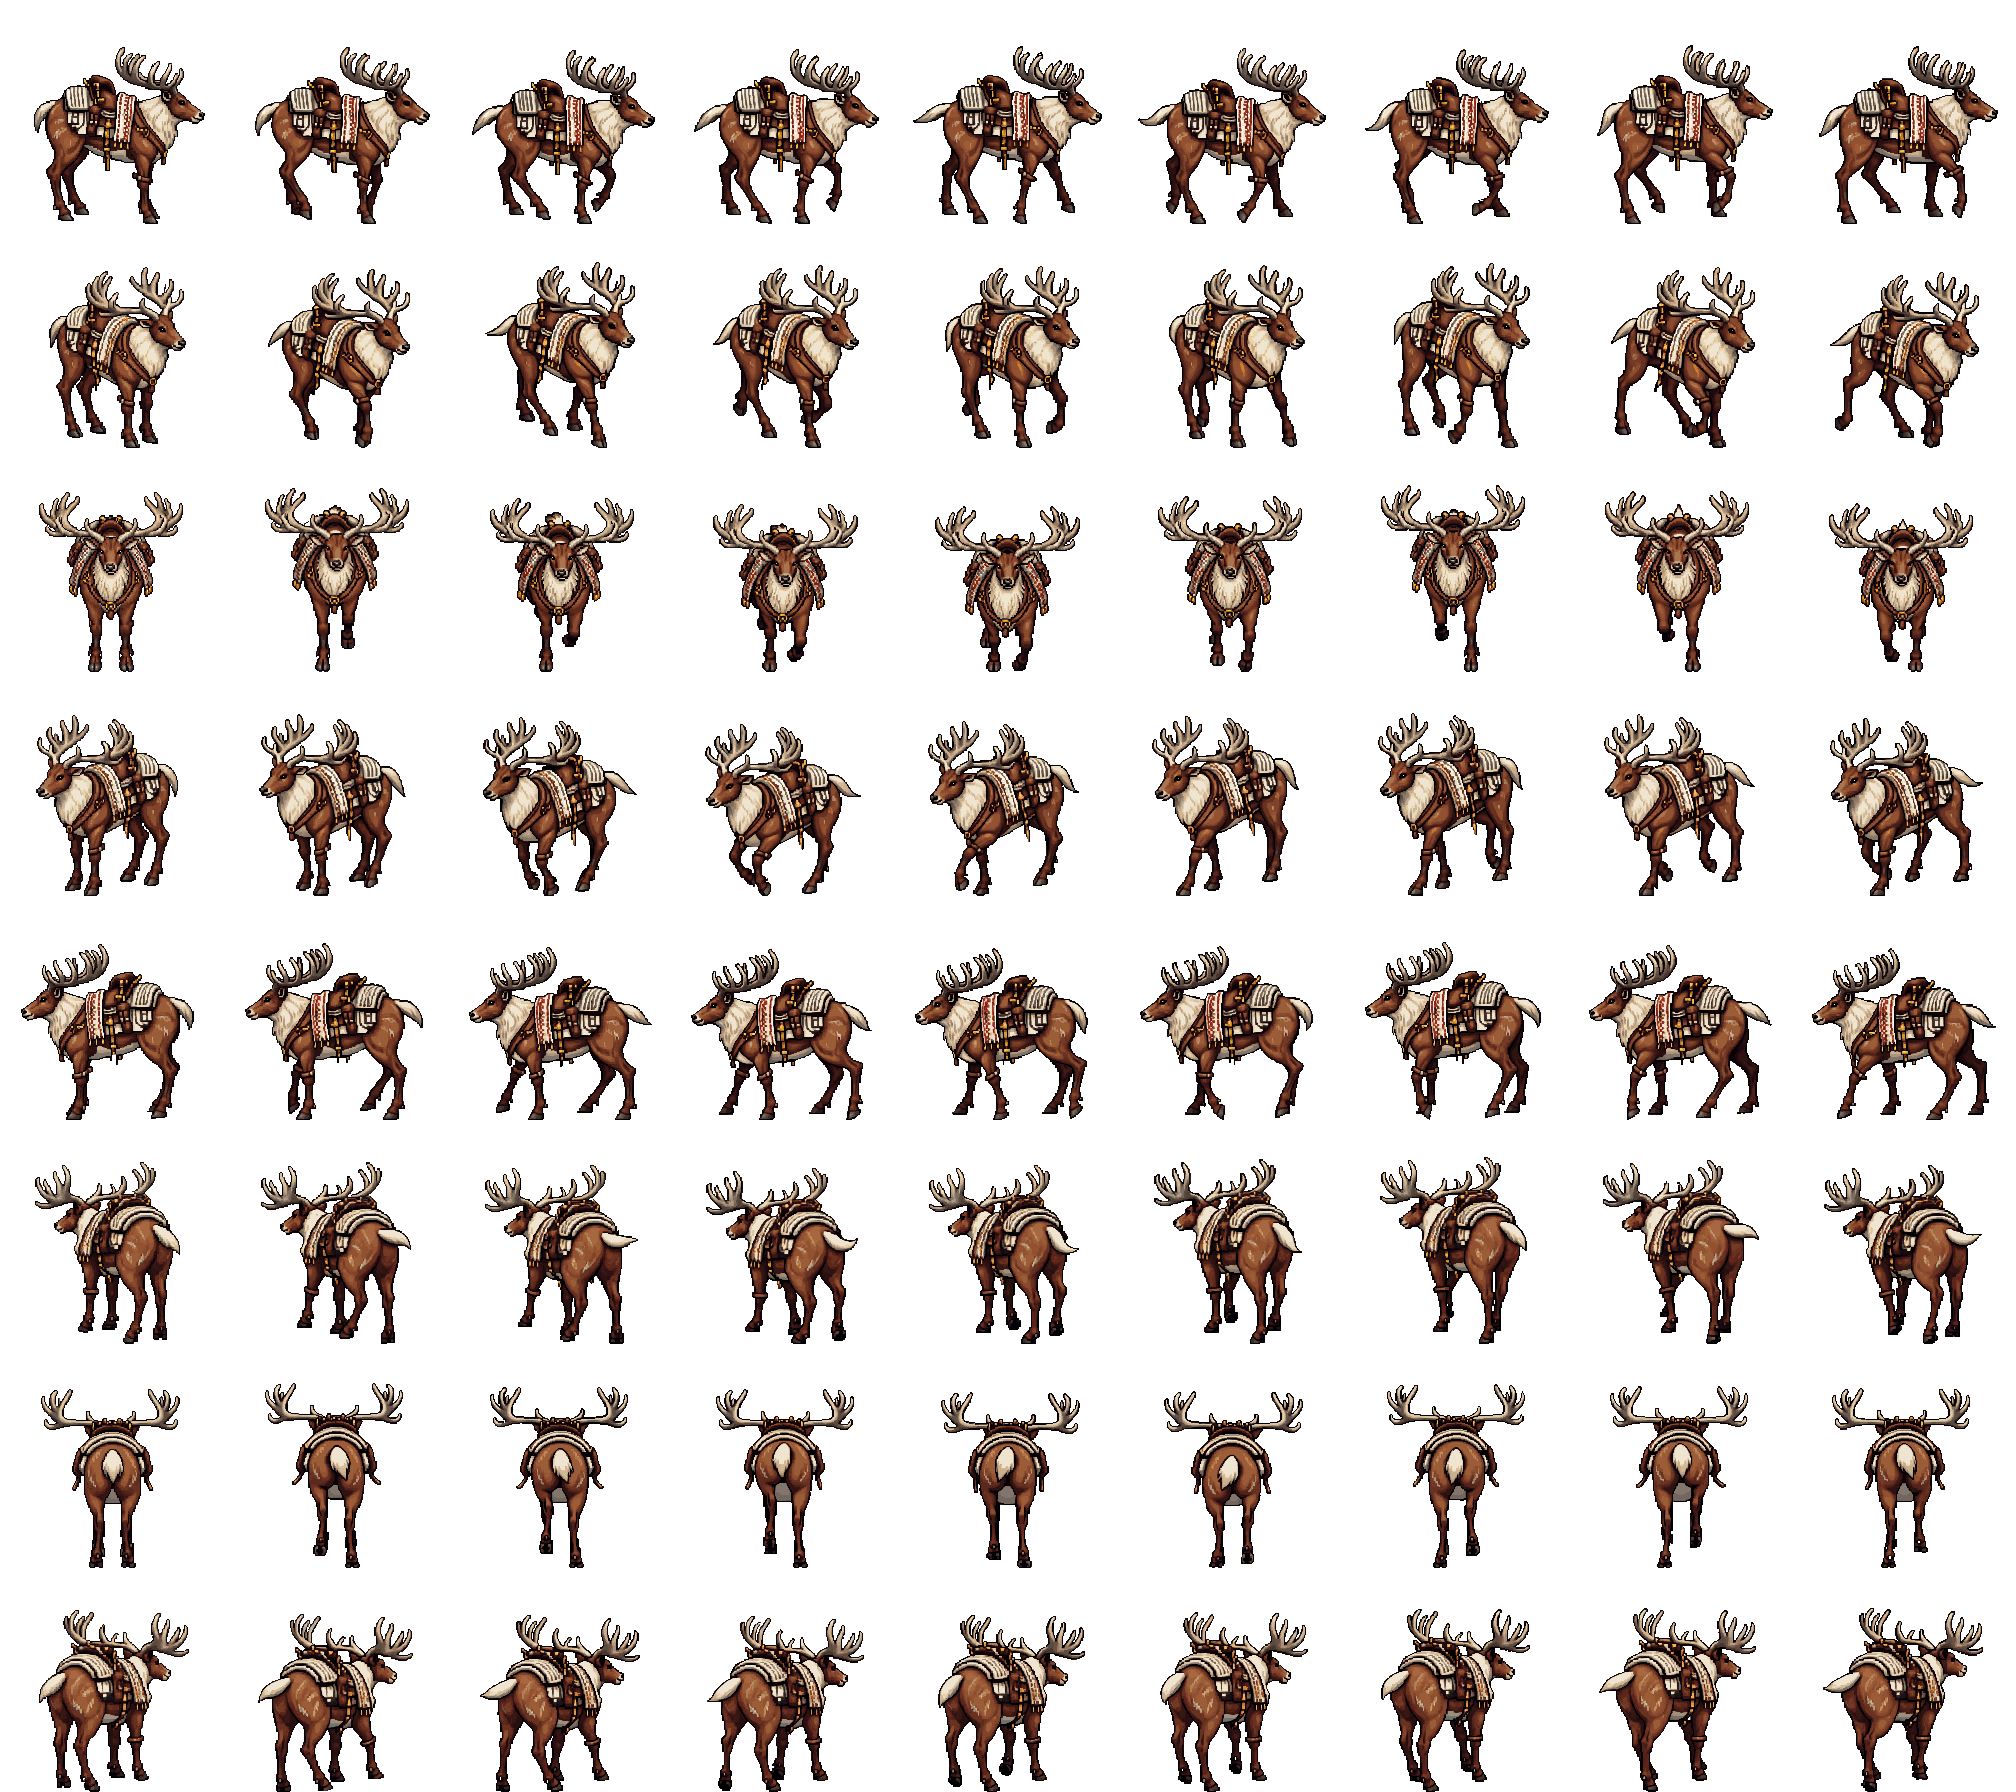
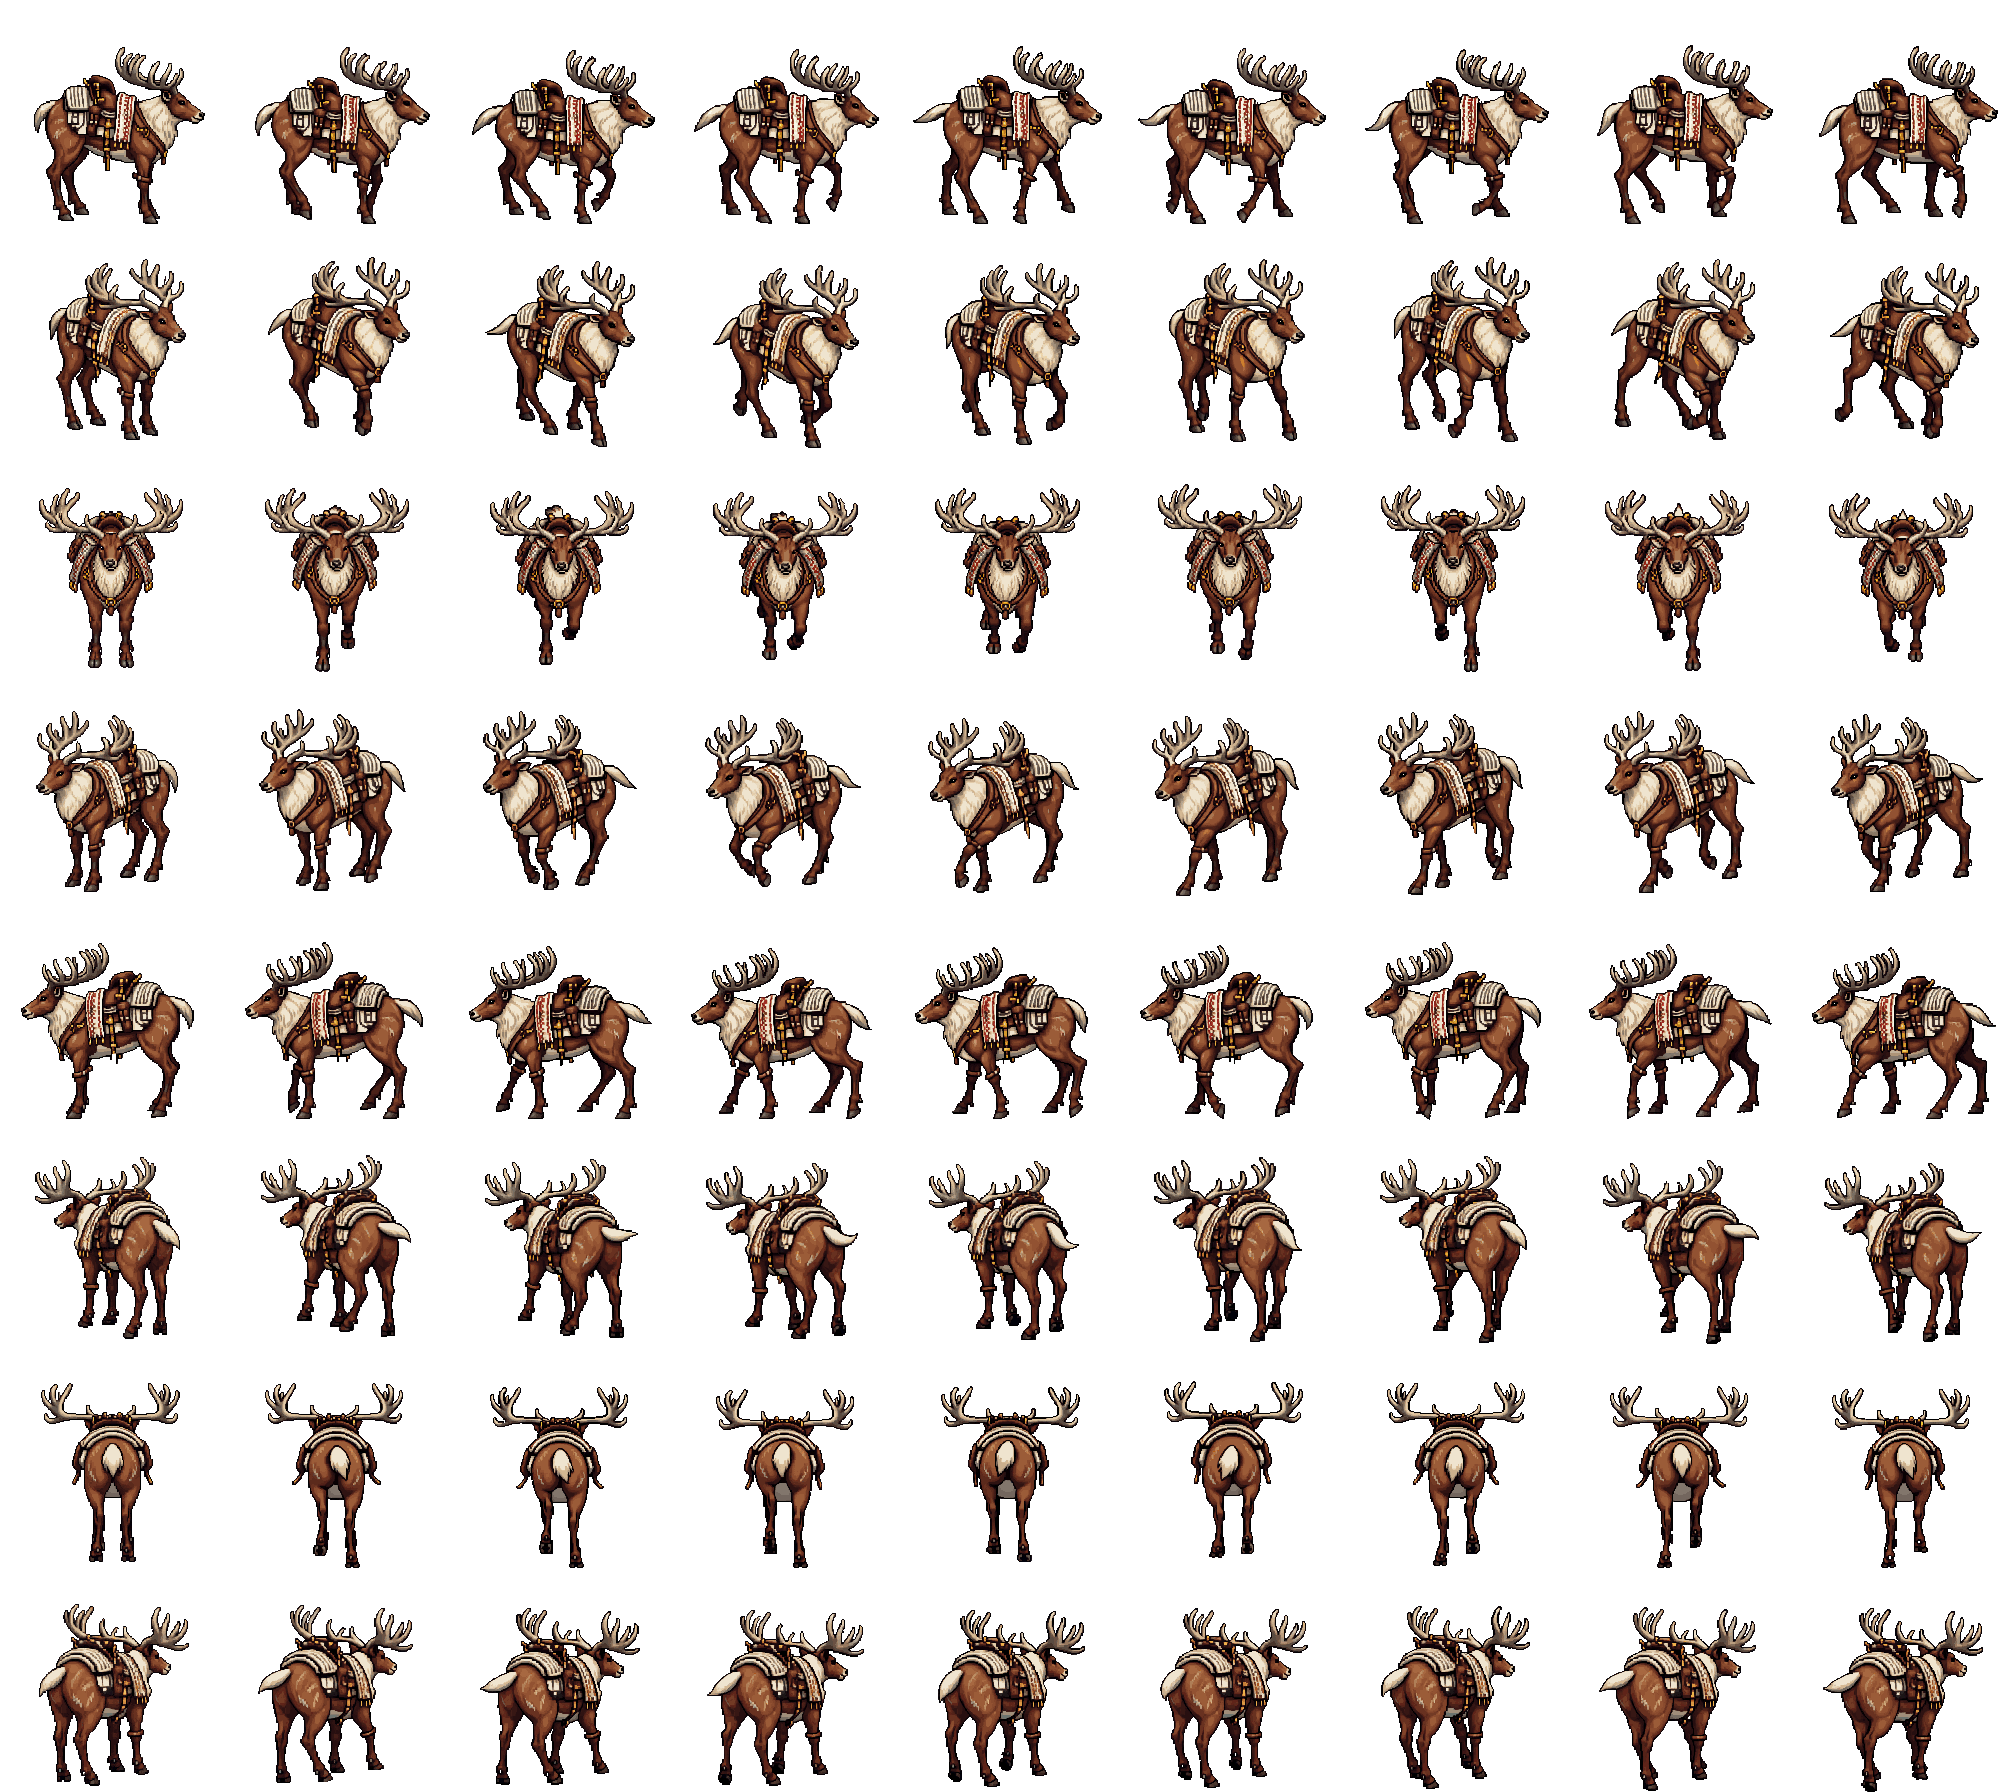
The far leg goes behind the horse, and gallops leave the ground
Owner: "make it so the leg in the back is faded out from a proper anchor
aesthetically." A rider straddles, so one leg hangs on the far side of the
barrel and belongs behind it - but the rig draws the whole animal under the
whole Warden, which put both legs in front and read as somebody standing
against a horse rather than sitting on one.

Done the way SwimCover does the waterline rather than with a second painting:
the *same frame* of the *same sprite* drawn again above the rider, alpha ramped
in from the saddle. Above the anchor it contributes nothing and the torso is
untouched; below it the animal closes over the legs. The anchor is the same
number the rider is lifted by, so the fade cannot disagree with where they are
sitting.

The owner also suggested painting a near-side layer per frame and keying it
over. That is the more accurate method - it would keep the near leg and the
stirrup, which this also hides - and it costs 8 facings x 9 frames x 4 mounts =
288 layers that must be remade every time an animation is regenerated, by hand,
because the generator cannot produce them. Recorded as the route to take if the
stirrup is ever wanted back.

**And the packer was flattening every gallop.** `fit_all` already crops a whole
facing through one box and sets the union's bottom on the cell floor, which
deliberately leaves each pose where it belongs within the cycle. `align` then
forced every frame's own floor back down to that edge - which is the
[…]

diff --git a/tools/pack_mount_frames.py b/tools/pack_mount_frames.py
@@ -122,38 +122,35 @@ def fit_all(frames):
     return out
 
 
-def align(frames, ground: int):
-    """Every frame translated so its content sits on the same ground line.
+def check_span(frames, facing: str) -> None:
+    """Refuses a facing whose poses sit on wildly different ground lines.
 
-    **The line is the cell's own bottom edge**, which is what makes a sheet
-    independent of everything else: the reader puts the content's floor on the
-    node, so a walk and a gallop packed on different days still stand on the
-    same ground, and there is no base painting to read - which is what let the
-    Ash Courser's magenta placeholder poison this once.
+    **This used to move them, and that was wrong.** `fit_all` already crops a
+    whole facing through one box and sets the *union's* bottom on the cell
+    floor, which is the shared ground line - and which deliberately leaves each
+    individual pose where it belongs *within* the cycle. A gallop is a bound:
+    all four feet leave the ground, so an airborne frame's lowest pixel is
+    genuinely higher than a planted one's. Forcing every frame's own floor down
+    to the cell edge is exactly the instruction "never leave the ground", and it
+    flattened every gallop packed before this.
+
+    The terrace stag is what said so. Its bound needed a 31-pixel correction and
+    the old assertion refused it as "a different pose, not a wandering foot" -
+    which was true, and the pose was right and the correction was the mistake.
+
+    What is still worth refusing is a facing whose poses do not belong to one
+    cycle at all: something that has drifted a whole body length is a different
+    animal, not a longer stride.
     """
-    out = []
-    worst = 0
-    for frame in frames:
-        floor = floor_of(frame)
-        if floor < 0:
-            out.append(frame)
-            continue
-        shift = ground - floor
-        worst = max(worst, abs(shift))
-        if shift == 0:
-            out.append(frame)
-            continue
-        moved = Image.new("RGBA", frame.size, (0, 0, 0, 0))
-        moved.alpha_composite(frame, (0, shift))
-        out.append(moved)
-    # A correction bigger than an eighth of the cell is not a wandering foot,
-    # it is a different pose - and silently sliding one into line would hide
-    # the real problem. The same assertion `install_boss_frames.py` makes.
-    if worst > CELL // 8:
-        raise SystemExit("a frame needed a %d px correction to reach the ground "
-                         "line; that is a different pose, not a wandering foot"
-                         % worst)
-    return out
+    floors = [floor_of(f) for f in frames]
+    real = [f for f in floors if f >= 0]
+    if not real:
+        return
+    spread = max(real) - min(real)
+    if spread > CELL // 2:
+        raise SystemExit("%s's poses span %d px of ground line, over half the "
+                         "%d cell - that is not one cycle"
+                         % (facing, spread, CELL))
 
 
 def expand(url: str, count: int):
@@ -250,7 +247,8 @@ def main() -> None:
     rows = []
     for facing in FACINGS:
         frames = fit_all([fetch(url) for url in by_facing[facing]])
-        rows.append(align(frames, CELL))
+        check_span(frames, facing)
+        rows.append(frames)
         print("  %-11s %d frame(s)" % (facing, len(rows[-1])), file=sys.stderr)
 
     path = pack(args.mount_id, args.state, rows)

diff --git a/docs/ASSET_MANIFEST.md b/docs/ASSET_MANIFEST.md
@@ -854,14 +854,15 @@ An idle sheet is 224×1792 (one frame, eight facings); a walk or a gallop is
 | `mount_marsh_pony_idle.png` | 224×1792 | T | `#6B5A44` |
 | `mount_steppe_horse_idle.png` | 224×1792 | T | `#7A6448` |
 | `mount_terrace_stag_idle.png` | 224×1792 | T | `#5E5140` |
-| `mount_ash_courser_idle.png` | 224×1792 | T | `#4A423E` |
-| `mount_steppe_horse_walk.png` | 2016×1792 | T | `#7A6448` |
-| `mount_steppe_horse_gallop.png` | 2016×1792 | T | `#7A6448` |
 | `mount_marsh_pony_walk.png` | 2016×1792 | T | `#6B5A44` |
 | `mount_marsh_pony_gallop.png` | 2016×1792 | T | `#6B5A44` |
+| `mount_steppe_horse_walk.png` | 2016×1792 | T | `#7A6448` |
+| `mount_steppe_horse_gallop.png` | 2016×1792 | T | `#7A6448` |
 | `mount_ash_courser_walk.png` | 2016×1792 | T | `#4A423E` |
 | `mount_ash_courser_gallop.png` | 2016×1792 | T | `#4A423E` |
 | `mount_terrace_stag_walk.png` | 2016×1792 | T | `#5E5140` |
+| `mount_terrace_stag_gallop.png` | 2016×1792 | T | `#5E5140` |
+| `mount_ash_courser_idle.png` | 224×1792 | T | `#4A423E` |
 
 ### 5.5b Building tiers and idle frames — `res://art/city/`
 
@@ -3024,6 +3025,7 @@ resolution, and re-taken whenever a screen changes.
 | File | Size | Type | Placeholder colour |
 |------|------|------|--------------------|
 | `account.png` | 1280×720 | O | `#1E2E33` |
+| `mounts.png` | 1280×720 | O | `#1E2E33` |
 | `act_track.png` | 1280×720 | O | `#1E2E33` |
 | `bow.png` | 1280×720 | O | `#1E2E33` |
 | `camps.png` | 1280×720 | O | `#1E2E33` |
